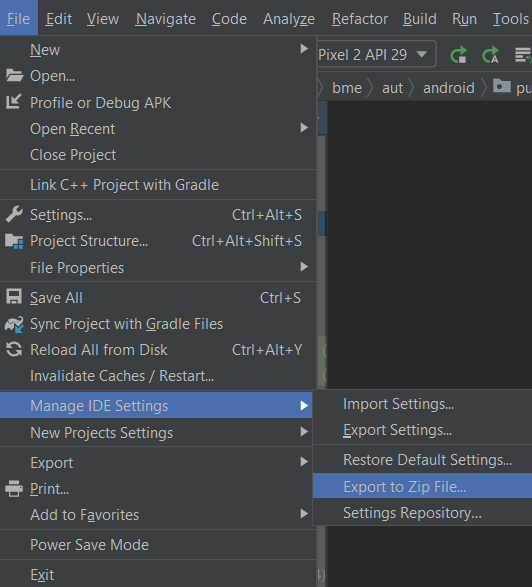
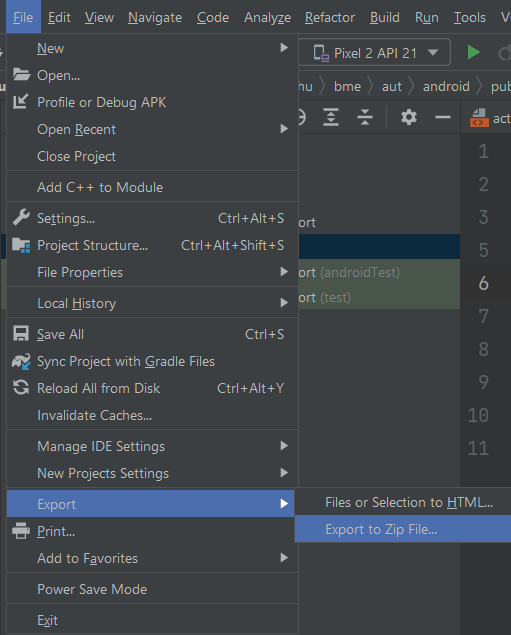
Mobil labor01 update

diff --git a/Mobil/Labor/Labor01/README.md b/Mobil/Labor/Labor01/README.md
@@ -13,7 +13,7 @@ A labor során egy tömegközlekedési vállalat számára megálmodott alkalmaz
 
 ## Értékelés
 
-Vezetett rész (1 pont)
+Vezetett rész (0,5 pont)
 - [Projekt létrehozása](#projekt-létrehozása)
 - [Splash képernyő](#splash-képernyő)
 - [Login](#login)
@@ -21,7 +21,7 @@ Vezetett rész (1 pont)
 - [Részletes nézet](#részletes-nézet)
 - [A bérlet](#a-bérlet)
 
-Önálló feladat (1 pont)
+Önálló feladat (0,5 pont)
 - [Hajók](#hajók)
 
 Bónusz feladatok
@@ -769,7 +769,7 @@ A számolásokhoz és az eseménykezeléshez a [`Calendar`](https://developer.an
 
 A labor értékeléséhez **két külön** fájlt kell feltölteni:
 
-1. Az elkészült forráskódot egy .zip-ben. Ez generálható az Android Studioval a `File` > `Manage IDE Settings` > `Export to Zip File...` menüponttal.
+1. Az elkészült forráskódot egy .zip-ben. Ez generálható az Android Studioval a `File` > `Export` > `Export to Zip File...` menüponttal.
 
 <p align="center"> 
 <img src="./assets/export.png" width="320">
